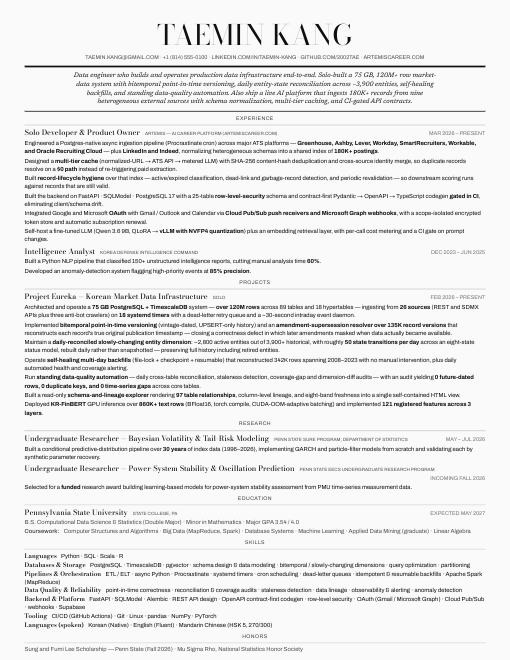
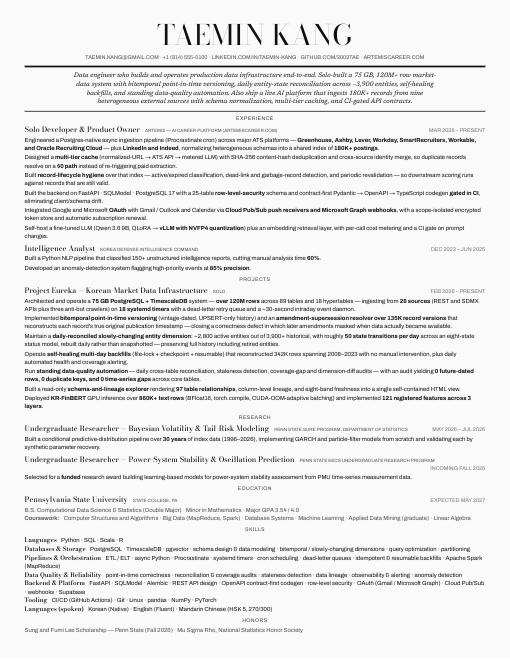
dates: expand abbreviated month ranges in render() and Pydantic · themes: section/entry lists block, not flex (W16: orphaned headings, phantom gaps) + lint R11 · fit/plan: body-lock mode fills remaining space (top-N) · fit-baseline regenerated

Changed region(s): [[0.0294, 0.1818, 0.9706, 1.0]]

diff --git a/src/browser.ts b/src/browser.ts
@@ -129,6 +129,31 @@ export async function plan(ir: ResumeIR, assets: ThemeAssets, policy: FitPolicy,
   // floor by policy: don't go below minBodyPt
   const floor = lock ? FLOOR : Math.max(FLOOR, minBodyPt / (bodyPx * 0.75));
 
+  // body-lock fill: 본문이 고정이면 density 는 여백만 바꾸므로 "많이 넣기"가 항상 낫다. priority 티어는
+  // 들어가는 순간 멈춰 남은 공간을 버린다(실측 11 → 6) — FLOOR 에서 최대 N 을 찾고 그 N 에서 여백을 되돌린다.
+  // tools/fit.py 의 body-lock 분기와 같은 알고리즘.
+  if (lock) {
+    const total = (["experiences", "projects", "research"] as const).reduce((n, k) => n + (ir[k] ?? []).reduce((m, x) => m + (x.bullets ?? []).length, 0), 0);
+    let lo = 0, hi = total + 1;
+    while (hi - lo > 1) {
+      const mid = (lo + hi) >> 1;
+      if ((await pagesAt(floor, undefined, keepTop(ir, mid).ir)) <= target) lo = mid; else hi = mid;
+    }
+    if (lo === 0 && total > 0) {
+      options.push({ kind: "infeasible", reason: `does not fit at ${minBodyPt}pt even with no bullets` });
+      return { feasible: false, needsChoice: false, atOriginal, options, warnings };
+    }
+    const { ir: kept, removed } = keepTop(ir, lo);
+    let dlo = floor, dhi = 1;
+    if ((await pagesAt(1, undefined, kept)) <= target) dlo = 1;
+    else for (let i = 0; i < 5; i++) { const m = (dlo + dhi) / 2; if ((await pagesAt(m, undefined, kept)) <= target) dlo = m; else dhi = m; }
+    if (removed.length) options.push({ kind: "trim", remove: removed, density: dlo, bodyPt: pt(dlo), pages: target });
+    else options.push({ kind: "shrink", density: dlo, bodyPt: pt(dlo), pages: target });
+    options.push({ kind: "overflow", pages: p0, bodyPt: pt(1) });
+    return { feasible: true, needsChoice: removed.length > 0 && policy.trim === "ask", atOriginal,
+             best: { density: dlo, bodyPt: pt(dlo), pages: target, removed }, options, warnings };
+  }
+
   const search = async (minPriority?: number) => {
     if ((await pagesAt(floor, minPriority)) > target) return null;
     let lo = floor, hi = 1;

diff --git a/src/render.ts b/src/render.ts
@@ -42,8 +42,26 @@ const safeVars = (vars: Record<string, string> | undefined, warn: (c: Warning["c
 const inline = (s: string): string =>
   esc(s).replace(/\*\*(.+?)\*\*/g, "<strong>$1</strong>");
 
+const MONTHS = ["jan","feb","mar","apr","may","jun","jul","aug","sep","oct","nov","dec"];
+const MON = "(?:Jan|Feb|Mar|Apr|May|Jun|Jul|Aug|Sep|Sept|Oct|Nov|Dec)[a-z]*\\.?";
+const ABBREV_RANGE = new RegExp(`^\\s*(${MON})\\s*[–—-]\\s*(${MON})\\s+(\\d{4})\\s*$`, "i");
+
+/**
+ * "May – Jul 2026" → "May 2026 – Jul 2026". ATS 날짜 파서는 시작 쪽 연도가 없으면 시작일을 못 읽는다
+ * (구조 무지 파서 tools/ats_generic.py 의 범위 정규식이 이걸 못 잡았다). 월–월 범위만 풀고,
+ * 해를 넘는 범위("Dec – Feb 2026")는 시작 연도를 하나 뺀다. 연도가 아예 없는 것("May – Present")은 추측하지 않는다.
+ */
+export function expandDateRange(raw: string): string {
+  const m = raw.match(ABBREV_RANGE);
+  if (!m) return raw;
+  const idx = (x: string) => MONTHS.indexOf(x.slice(0, 3).toLowerCase());
+  const y = Number(m[3]);
+  const startYear = idx(m[1]) > idx(m[2]) ? y - 1 : y;
+  return `${m[1]} ${startYear} – ${m[2]} ${y}`;
+}
+
 const dateRaw = (d?: DateRange | string): string =>
-  typeof d === "string" ? d : d?.raw ?? "";
+  expandDateRange(typeof d === "string" ? d : d?.raw ?? "");
 
 const asBullet = (b: LooseBullet): Bullet => (typeof b === "string" ? { text: b } : b);
 

diff --git a/themes/numerals/theme.css b/themes/numerals/theme.css
@@ -21,15 +21,19 @@
   line-height:1.7;color:var(--mid)}
 .rz-contact{display:block}
 
-.rz-section{display:flex;flex-direction:column;gap:var(--sp-item);padding-top:var(--sp-sec);
+.rz-section{display:block;padding-top:var(--sp-sec);
   margin-top:calc(var(--sp-sec) * 1.2)}
+/* W7: flex 컨테이너 안에서는 break-after:avoid 가 무시되어 2페이지에서 섹션 제목만 1쪽 끝에 남았다(실측) — block + 같은 값의 margin */
+.rz-section>.rz-section-label{margin-bottom:var(--sp-item)}
 .rz-section-label{counter-increment:sec;margin:0;display:flex;align-items:baseline;gap:10px;
   font-family:'Space Grotesk',Arial,sans-serif;font-size:var(--fs-sec);font-weight:500;letter-spacing:var(--tr-sec);text-transform:uppercase;
   padding-bottom:3px;border-bottom:var(--rw) solid var(--rule)}
 .rz-section-label::before{content:counter(sec,decimal-leading-zero);
   font-family:'Instrument Serif',Georgia,serif;font-size:calc(var(--fs-sec) * 1.7);
   font-weight:400;letter-spacing:0;color:var(--accent)}
-.rz-entries{display:flex;flex-direction:column;gap:var(--sp-item)}
+.rz-entries{display:block}
+.rz-entries>.rz-entry{margin-bottom:var(--sp-item)}
+.rz-entries>.rz-entry:last-child{margin-bottom:0}
 
 .rz-entry-head{display:flex;flex-wrap:wrap;align-items:baseline;column-gap:8px}
 /* 원본 핵심: 디스플레이 세리프 제목 vs 그로테스크 본문 (전사) */

diff --git a/themes/ledger/theme.css b/themes/ledger/theme.css
@@ -25,15 +25,19 @@
   font-size:var(--fs-meta);line-height:1.7;color:var(--mid)}
 
 /* 번호 매긴 섹션 */
-.rz-section{display:flex;flex-direction:column;gap:var(--sp-item);
+.rz-section{display:block;
   padding-top:var(--sp-sec);margin-top:var(--sp-sec);
   border-top:var(--rw) solid var(--rule);counter-reset:ent}
+/* W7: flex 컨테이너 안에서는 break-after:avoid 가 무시되어 2페이지에서 섹션 제목만 1쪽 끝에 남았다(실측) — block + 같은 값의 margin */
+.rz-section>.rz-section-label{margin-bottom:var(--sp-item)}
 /* 원본(캡처 재확인): 번호·라벨 모두 모노 대문자, accent 색 */
 .rz-section-label{counter-increment:sec;margin:0;display:flex;align-items:baseline;gap:11px;
   font-family:var(--mono);font-size:var(--fs-sec);font-weight:500;letter-spacing:var(--tr-mono);
   text-transform:uppercase;color:var(--accent)}
 .rz-section-label::before{content:counter(sec,decimal-leading-zero);color:var(--accent)}
-.rz-entries{display:flex;flex-direction:column;gap:var(--sp-item)}
+.rz-entries{display:block}
+.rz-entries>.rz-entry{margin-bottom:var(--sp-item)}
+.rz-entries>.rz-entry:last-child{margin-bottom:0}
 
 /* 점선 리더로 제목과 날짜를 잇는다 */
 .rz-entry-head{display:flex;align-items:baseline;flex-wrap:wrap;column-gap:7px}

diff --git a/themes/masthead/theme.css b/themes/masthead/theme.css
@@ -35,11 +35,14 @@
 .rz-summary{margin:0 auto;max-width:96ch;font-family:'Newsreader','Source Serif 4',Georgia,serif;font-style:italic;
   font-size:var(--fs-lede);line-height:1.36;text-align:center;color:var(--ink)}
 
-.rz-section{display:flex;flex-direction:column;gap:var(--sp-item);padding-top:var(--sp-sec)}
+.rz-section{display:block;padding-top:var(--sp-sec)}
+/* W7: flex 컨테이너 안에서는 break-after:avoid 가 무시되어 2페이지에서 섹션 제목만 1쪽 끝에 남았다(실측) — block + 같은 값의 margin */
+.rz-section>.rz-section-label{margin-bottom:var(--sp-item)}
 .rz-section-label{margin:0;font-size:var(--fs-sec);font-weight:400;letter-spacing:0.08em;
   text-transform:uppercase;color:var(--accent);text-align:center}
-.rz-entries{display:flex;flex-direction:column;gap:var(--sp-item);
-  border-top:var(--rw) solid var(--rule);padding-top:var(--sp-item)}
+.rz-entries{display:block}
+.rz-entries>.rz-entry{margin-bottom:var(--sp-item)}
+.rz-entries>.rz-entry:last-child{margin-bottom:0}
 .rz-section[data-section="summary"] .rz-entries{border-top:none;padding-top:0}
 
 .rz-entry-head{display:flex;flex-wrap:wrap;align-items:baseline;column-gap:8px}

diff --git a/themes/classic/theme.css b/themes/classic/theme.css
@@ -19,11 +19,15 @@
 .rz-contact{display:inline}
 .rz-contact:not(:last-child)::after{content:"  ·  ";color:var(--faint)}
 
-.rz-section{display:flex;flex-direction:column;gap:var(--sp-item);padding-top:var(--sp-sec)}
+.rz-section{display:block;padding-top:var(--sp-sec)}
+/* W7: flex 컨테이너 안에서는 break-after:avoid 가 무시되어 2페이지에서 섹션 제목만 1쪽 끝에 남았다(실측) — block + 같은 값의 margin */
+.rz-section>.rz-section-label{margin-bottom:var(--sp-item)}
 .rz-section-label{margin:0;font-size:var(--fs-sec);font-variant:all-small-caps;font-weight:700;
   letter-spacing:var(--tr-sec);color:var(--ink);
   padding-bottom:2px;border-bottom:var(--rw) solid var(--rule)}
-.rz-entries{display:flex;flex-direction:column;gap:var(--sp-item)}
+.rz-entries{display:block}
+.rz-entries>.rz-entry{margin-bottom:var(--sp-item)}
+.rz-entries>.rz-entry:last-child{margin-bottom:0}
 
 /* 원본은 justify-content:space-between 이지만 그건 제목+소속이 한 래퍼에 있을 때의 선언이다.
    정규 HTML 은 셋이 평면이라 그대로 쓰면 소속이 가운데로 뜬다 — 시각 결과를 맞춘다. */

diff --git a/themes/colorfield/theme.css b/themes/colorfield/theme.css
@@ -34,11 +34,15 @@
   font-size:var(--fs-lede);line-height:1.4;color:var(--on-field)}
 
 /* 본문 */
-.rz-section{display:flex;flex-direction:column;gap:var(--sp-item);
+.rz-section{display:block;
   padding:var(--sp-sec) calc(48px * var(--density)) 0}
+/* W7: flex 컨테이너 안에서는 break-after:avoid 가 무시되어 2페이지에서 섹션 제목만 1쪽 끝에 남았다(실측) — block + 같은 값의 margin */
+.rz-section>.rz-section-label{margin-bottom:var(--sp-item)}
 .rz-section-label{margin:0;font-family:'EB Garamond',Georgia,serif;font-size:var(--fs-sec);
   font-weight:500;letter-spacing:0.08em;text-transform:uppercase;color:var(--accent)}
-.rz-entries{display:flex;flex-direction:column;gap:var(--sp-item)}
+.rz-entries{display:block}
+.rz-entries>.rz-entry{margin-bottom:var(--sp-item)}
+.rz-entries>.rz-entry:last-child{margin-bottom:0}
 .rz-entry-head{display:flex;flex-wrap:wrap;align-items:baseline;column-gap:7px}
 .rz-title{font-family:'Bodoni Moda',Didot,serif;font-size:var(--fs-entry);font-weight:500}
 .rz-org{font-family:'Newsreader','Source Serif 4',Georgia,serif;font-style:italic;color:var(--mid)}

diff --git a/themes/folio/theme.css b/themes/folio/theme.css
@@ -29,11 +29,15 @@
 
 /* 굵은-가는 룰 쌍 */
 /* 원본 룰 쌍: 굵은 선(3px) 바로 아래 2px 띄고 가는 선(1px), 그 아래 라벨 */
-.rz-section{display:flex;flex-direction:column;gap:var(--sp-item);padding-top:2px;
+.rz-section{display:block;padding-top:2px;
   margin-top:var(--sp-sec);border-top:3px solid var(--ink)}
+/* W7: flex 컨테이너 안에서는 break-after:avoid 가 무시되어 2페이지에서 섹션 제목만 1쪽 끝에 남았다(실측) — block + 같은 값의 margin */
+.rz-section>.rz-section-label{margin-bottom:var(--sp-item)}
 .rz-section-label{margin:0;padding-top:4px;border-top:var(--rw) solid var(--ink);
   font-family:'ArchivoCond','Archivo',sans-serif;font-size:var(--fs-sec);font-weight:800;letter-spacing:.02em;text-transform:uppercase}
-.rz-entries{display:flex;flex-direction:column;gap:var(--sp-item)}
+.rz-entries{display:block}
+.rz-entries>.rz-entry{margin-bottom:var(--sp-item)}
+.rz-entries>.rz-entry:last-child{margin-bottom:0}
 
 .rz-entry-head{display:flex;flex-wrap:wrap;align-items:baseline;column-gap:8px}
 .rz-title{font-size:var(--fs-entry);font-weight:700}

diff --git a/themes/standfirst/theme.css b/themes/standfirst/theme.css
@@ -33,10 +33,14 @@
   line-height:1.42;color:var(--ink)}
 
 /* 섹션 제목: 우측 끝 이탤릭, 아래 가는 룰 */
-.rz-section{display:flex;flex-direction:column;gap:var(--sp-item);padding-top:var(--sp-sec)}
+.rz-section{display:block;padding-top:var(--sp-sec)}
+/* W7: flex 컨테이너 안에서는 break-after:avoid 가 무시되어 2페이지에서 섹션 제목만 1쪽 끝에 남았다(실측) — block + 같은 값의 margin */
+.rz-section>.rz-section-label{margin-bottom:var(--sp-item)}
 .rz-section-label{margin:0;font-family:'Newsreader','Source Serif 4',Georgia,serif;font-style:italic;font-size:var(--fs-sec);
   font-weight:400;color:var(--accent);text-align:right;padding-bottom:3px;border-bottom:var(--rw) solid var(--rule)}
-.rz-entries{display:flex;flex-direction:column;gap:var(--sp-item)}
+.rz-entries{display:block}
+.rz-entries>.rz-entry{margin-bottom:var(--sp-item)}
+.rz-entries>.rz-entry:last-child{margin-bottom:0}
 
 .rz-entry-head{display:flex;flex-wrap:wrap;align-items:baseline;column-gap:8px}
 .rz-title{font-size:var(--fs-entry);font-weight:600}

diff --git a/themes/minimal/theme.css b/themes/minimal/theme.css
@@ -18,11 +18,15 @@
 .rz-contacts{margin:10px 0 0;font-size:var(--fs-meta);color:var(--mid);
   display:flex;flex-wrap:wrap;column-gap:14px;row-gap:2px}
 
-.rz-section{display:flex;flex-direction:column;gap:var(--sp-item);
+.rz-section{display:block;
   padding-top:calc(var(--sp-sec) * 1.6)}
+/* W7: flex 컨테이너 안에서는 break-after:avoid 가 무시되어 2페이지에서 섹션 제목만 1쪽 끝에 남았다(실측) — block + 같은 값의 margin */
+.rz-section>.rz-section-label{margin-bottom:var(--sp-item)}
 .rz-section-label{margin:0;font-size:var(--fs-sec);font-weight:700;letter-spacing:var(--tr-sec);
   text-transform:uppercase;color:var(--mid)}
-.rz-entries{display:flex;flex-direction:column;gap:var(--sp-item)}
+.rz-entries{display:block}
+.rz-entries>.rz-entry{margin-bottom:var(--sp-item)}
+.rz-entries>.rz-entry:last-child{margin-bottom:0}
 
 .rz-entry-head{display:flex;flex-wrap:wrap;align-items:baseline;column-gap:8px}
 .rz-title{font-size:var(--fs-entry);font-weight:700}

diff --git a/themes/_shared.css b/themes/_shared.css
@@ -7,6 +7,9 @@ html,body{margin:0;padding:0;background:#fff}
 .rz-bullet{break-inside:avoid}
 /* 섹션 제목이 페이지 끝에 고아로 남지 않게 (실제 이력서 렌더에서 관측) */
 .rz-section-label{break-after:avoid}
+/* 머리줄(+연구의 지도교수 줄)이 첫 bullet 과 떨어져 페이지 끝에 남지 않게 */
+.rz-entry-head{break-after:avoid}
+.rz-entry>.rz-sub{break-after:avoid}
 @page{size:letter;margin:0}
 /* 페이지 여백은 @page 가 아니라 .rz 의 padding 으로 만든다.
    design-brief.html 의 .page 에는 padding 이 없으므로, 테마가 넣는 padding 이

diff --git a/src/index.ts b/src/index.ts
@@ -1,2 +1,2 @@
-export { render } from "./render.js";
+export { render, expandDateRange } from "./render.js";
 export type * from "./ir.js";
